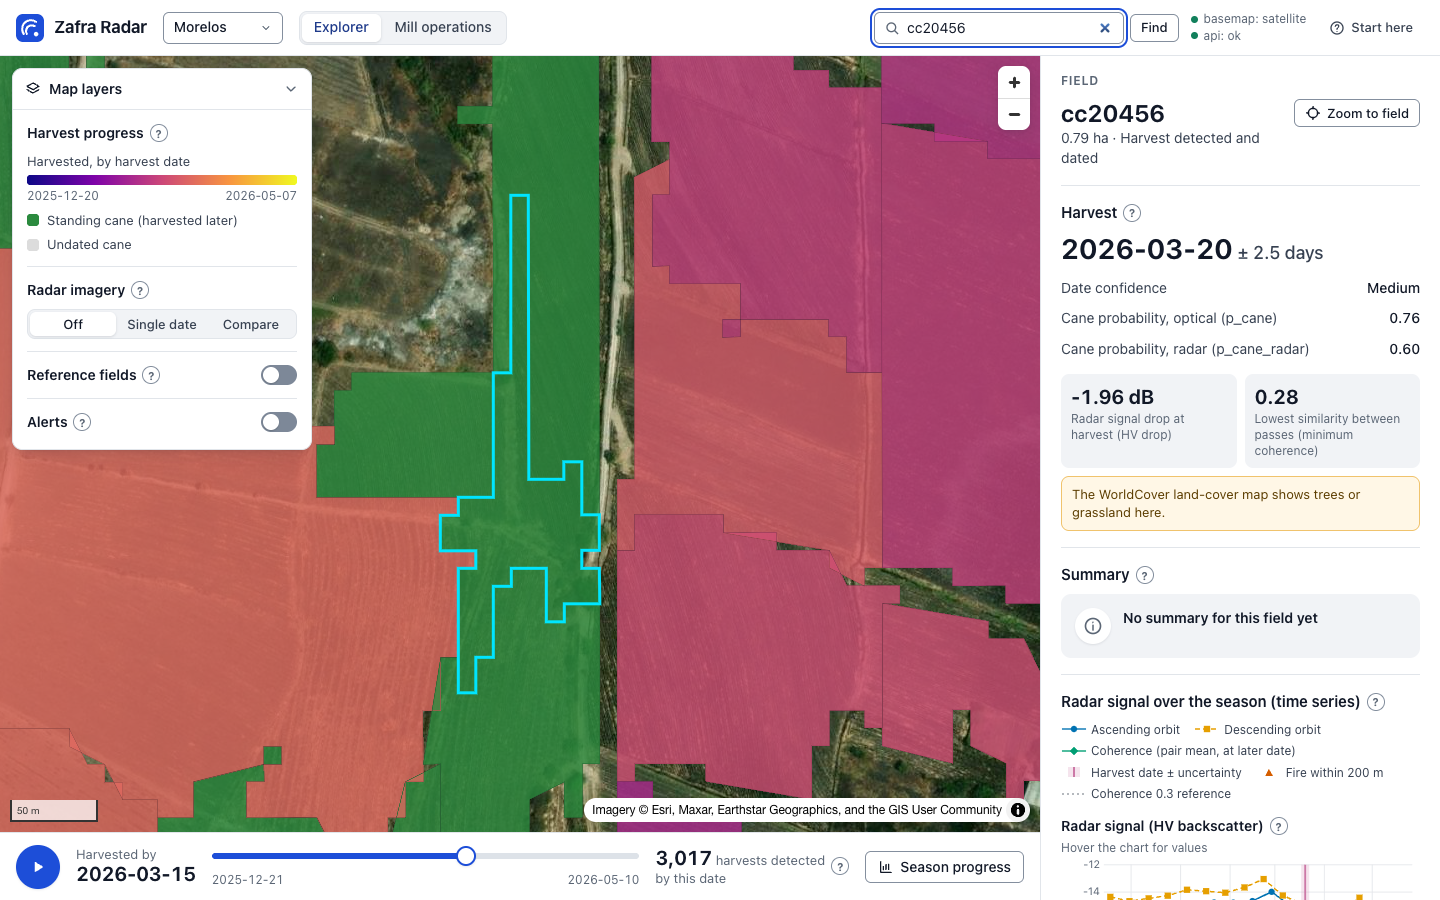
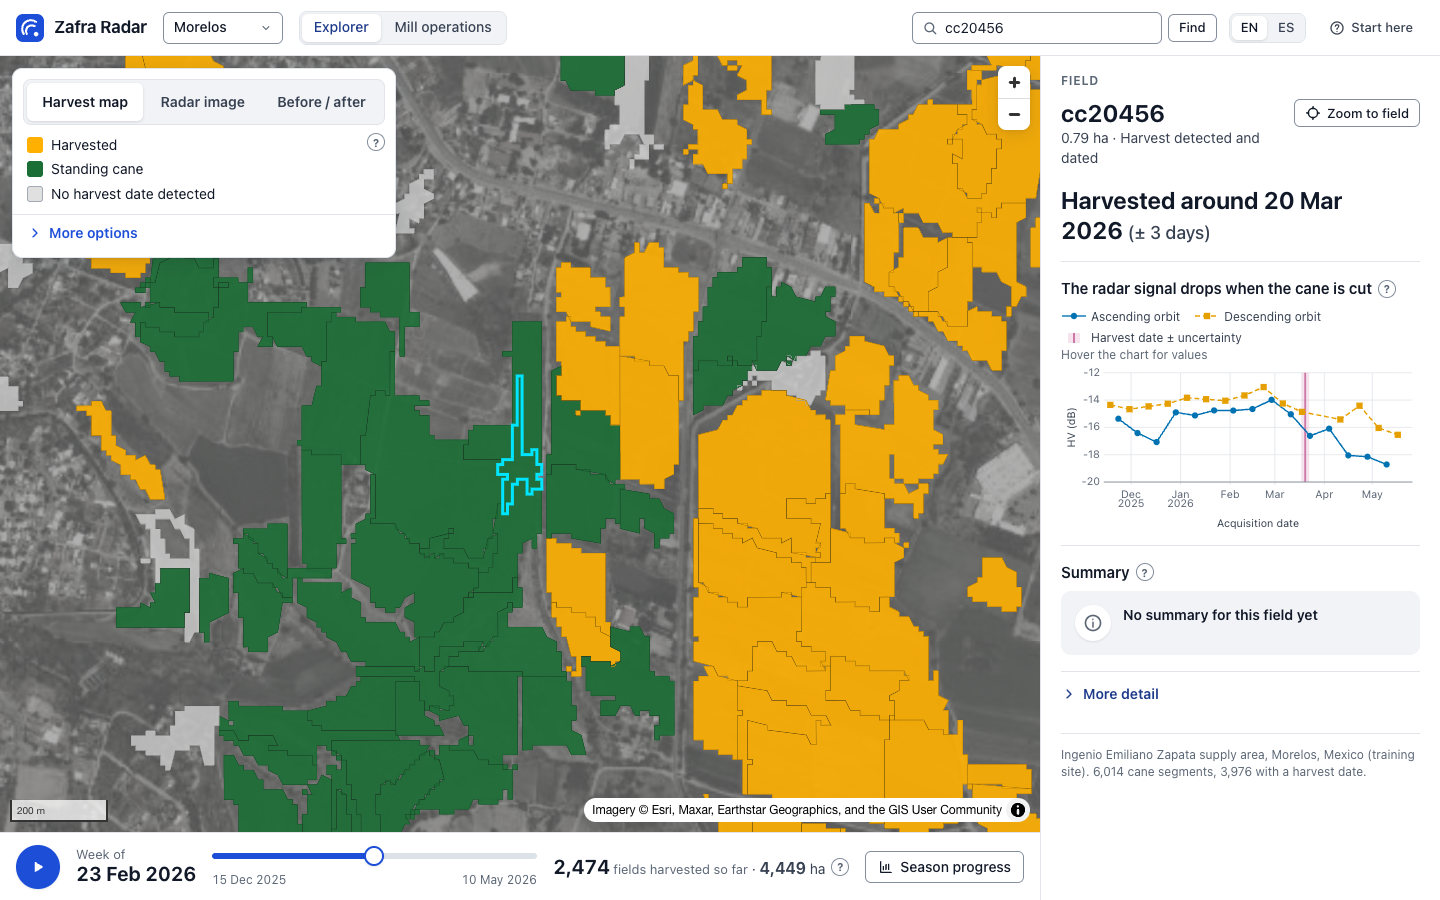
Document the three explorer views and refresh the screenshots
DESIGN.md records the three views, the More options rule, the harvest map
colours and their colour-blind check; README Status and the journal follow.
Six screenshots retaken at 1440x900 and three added, one per view.

diff --git a/README.md b/README.md
@@ -46,15 +46,19 @@ What exists right now:
   besides `/health` and `/version` (see [docs/API.md](docs/API.md));
 * the **map** draws the segment vector tiles from the API, with a site select (Morelos /
   Brazil) that refits the map, a weekly time slider with play/pause over the site's harvest
-  dates (segments harvested by the slider date coloured by harvest date, the rest standing
-  green, undated grey) and the cumulative count of detected harvests from `/weekly`, a
-  legend and hover highlight;
+  dates ("Week of" its Monday) and the fields harvested so far (`/weekly`) with their hectares
+  (`/ops/{site}/series`), and three views, one click each: **Harvest map** (harvested amber,
+  standing green, no harvest date grey, over a dimmed basemap; colour by harvest date under More
+  options), **Radar image** (the NISAR HV image following the timeline) and **Before / after**
+  (first against last acquisition with a divider); a legend of at most three entries;
 * the **field detail panel**: clicking a segment loads `/segments/{site}/{segment_id}` into
-  the side panel: area, status and "Zoom to field"; harvest date ± uncertainty, date
-  confidence and the optical and radar cane probabilities, HV drop and minimum coherence;
-  the field summary with an EN / ES toggle and its source; HV, HH (both orbits) and
-  coherence charts on one date axis with the harvest date band and nearby fires; the fire
-  list within 200 m and the field's alerts;
+  the side panel: area, status and "Zoom to field"; one sentence, "Harvested around <date>
+  (± n days)" or "No harvest date detected"; the HV radar signal of both orbits with the
+  harvest date band; the field summary with an EN / ES toggle and its source. "More detail"
+  holds the date confidence, the optical and radar cane probabilities, HV drop and minimum
+  coherence, HV, HH and coherence charts on one date axis with nearby fires, the fire list
+  within 200 m and the field's alerts; with nothing selected the panel shows the site's three
+  key numbers;
 * the **season progress panel** ("Season progress" on the timeline bar under the map) opens as a
   drawer across the bottom of the map, from `/sites` and `/weekly/{site}`: cane and dated area and segment counts (and,
   for Morelos, the official mill area and detected area as a share of it); weekly detected
@@ -65,14 +69,14 @@ What exists right now:
 * **reference fields**: the loader also fills `reference_fields`, `reference_dates` and
   `reference_summaries` (Morelos' 38 traced fields, with their NDVI harvest windows, p36's
   reported ground-truth dates and summaries), served by `/reference/{site}`. "Reference
-  fields" in the Map layers panel draws the outlines (white dashes, id labels from zoom 12); clicking
+  fields" under More options on the map panel draws the outlines (white dashes, id labels from zoom 12); clicking
   one opens a card with its reference dates, the radar date ± uncertainty of the field and
   of each overlapping segment, the difference in days, the summary (EN / ES) and links to
   the segments' detail. "Find field" flies to a reference field (p36) or a segment (cc20456).
 * **alerts**: `tools/build_alerts.py` runs the library's own alert rules over every cane
   segment of both sites into `data/derived/` (DATA.md); the loader loads them, and
   `/alerts/{site}` serves per-code counts with the library's definitions and pages of alerts.
-  "Alerts" in the Map layers panel lists them in the side panel: a fixed note that they are flags for
+  "Alerts" under More options lists them in the side panel: a fixed note that they are flags for
   review, code chips that filter the list and outline the matching segments on the map, 50
   rows at a time; clicking a row flies to the segment and opens its detail.
 * **mill operations**: a top-bar switch between "Explorer" and "Mill operations". The latter
@@ -95,23 +99,25 @@ What exists right now:
   [docs/FINDINGS.md](docs/FINDINGS.md).
 
 * **radar imagery** (Explorer): the library's NISAR GCOV tile sets (six ascending dates per
-  site; HV, HH, HV − HH cross-ratio and HV change) under the field polygons. "Radar imagery"
-  in the Map layers panel: off, single date (product, date, "Follow time slider" for the latest
-  acquisition on or before the slider date, opacity, field outlines on top in the harvest
-  colours or hidden) or compare (earlier date left, later date right, a draggable divider;
-  the right side can show the library's HV change layer for the pair where one exists). A
-  legend line gives the library's description of the colours and the acquisition date(s);
+  site; HV, HH, HV − HH cross-ratio and HV change) under the field polygons, shown by the
+  Radar image and Before / after views. Under More options: product, date or "Follow time
+  slider" for the latest acquisition on or before the slider date, the compare dates, the
+  library's HV change layer for the pair on the right where one exists, opacity, field
+  outlines on top in the harvest colours (off by default). The full legend gives the library's
+  description of the colours and the acquisition date(s);
   the imagery credit is the library's NISAR line (docs/DATA_SOURCES.md). Tiles exist for zoom 10-14;
   the tiles reach the server only with `./deploy.sh --with-rasters` (about 650 MB).
-* **interface**: one design system ([docs/DESIGN.md](docs/DESIGN.md)): a top bar (site, the
-  Explorer / Mill operations switch, Find field, language on Mill operations, connection
-  status), a Map layers panel (harvest legend, radar imagery, reference fields, alerts), a
-  timeline bar under the map with play and the current date, the season panel as a bottom
-  drawer, the detail panel on the right; "?" tooltips with one plain sentence per chart,
-  number and layer (technical term in parentheses); a three-step "Start here" guide on the
-  first visit (remembered in the browser); loading, empty and error states; keyboard
-  operation, visible focus and reduced motion; at phone width the page scrolls (map,
-  timeline, drawer, detail). Data colours and their meaning are unchanged.
+* **interface**: one design system ([docs/DESIGN.md](docs/DESIGN.md)), one idea per view with
+  everything else behind "More options" / "More detail", closed by default: a top bar (site,
+  the Explorer / Mill operations switch, Find field, an EN / ES switch for the whole interface
+  in Mexican Spanish), the map panel (three views, legend, More options: colour by date, radar
+  settings, reference fields, alerts), a timeline bar under the map, the season panel as a
+  bottom drawer, the detail panel on the right; dates day first in the interface language
+  (21 Dec 2025 / 21 dic 2025; API and CSV keep ISO dates); "?" tooltips with one plain
+  sentence per chart, number and layer (technical term in parentheses); a three-step "Start
+  here" guide on the first visit (remembered in the browser); loading, empty and error states;
+  keyboard operation, visible focus and reduced motion; at phone width the page scrolls (map,
+  timeline, drawer, detail).
 * **deployment**: first production deployment to zafraradar.earth on 2026-11-14 (see
   [DEPLOY.md](DEPLOY.md) and [docs/JOURNAL.md](docs/JOURNAL.md)).
 
@@ -206,9 +212,11 @@ At 1440×900 (headless Chrome, `docs/screenshots/`):
 
 | | |
 |---|---|
-| ![Explorer](docs/screenshots/explorer.png) Explorer: map layers, timeline, detail panel | ![Field detail](docs/screenshots/field_detail.png) Field detail |
-| ![Season panel](docs/screenshots/season_panel.png) Season progress drawer | ![Radar compare](docs/screenshots/radar_compare.png) Radar imagery, compare |
-| ![Mill operations](docs/screenshots/mill_operations_es.png) Mill operations, Spanish | ![Weekly report](docs/screenshots/weekly_report.png) Weekly report |
+| ![Harvest map](docs/screenshots/view_harvest.png) Harvest map (default view) | ![Radar image](docs/screenshots/view_radar.png) Radar image |
+| ![Before / after](docs/screenshots/view_before_after.png) Before / after | ![Explorer](docs/screenshots/explorer.png) More options open, colour by harvest date |
+| ![Field detail](docs/screenshots/field_detail.png) Field detail | ![Season panel](docs/screenshots/season_panel.png) Season progress drawer |
+| ![Radar compare](docs/screenshots/radar_compare.png) Before / after with its More options | ![Mill operations](docs/screenshots/mill_operations_es.png) Mill operations, Spanish |
+| ![Weekly report](docs/screenshots/weekly_report.png) Weekly report | |
 
 ## License
 

diff --git a/docs/DESIGN.md b/docs/DESIGN.md
@@ -4,12 +4,27 @@ One page of rules for the web app (`web/src/styles.css` holds the tokens as CSS 
 The goal: a formal, quiet interface that someone with no remote-sensing background can read at
 a glance, on a laptop, online and on a projector at 1280×720.
 
+**One idea per view, readable in three seconds.** Each screen shows one thing and a legend of
+at most three plain entries. Everything else sits behind a "More options" (map) or "More
+detail" (field) disclosure, closed by default. Advanced controls move there; they are never
+removed.
+
 ## Tokens
 
 **Colour (interface only).** Neutral light background, white surfaces, one accent. The data
-colours (harvest ramp, standing / undated cane, orbit and chart series, ops map colours, alert
-and selection outlines) live in `colors.ts`, `season.ts`, `ops.ts` and `alerts.ts` and are not
-interface tokens: they are never restyled.
+colours (harvest map, harvest-date ramp, orbit and chart series, ops map colours, alert and
+selection outlines) live in `colors.ts`, `season.ts`, `ops.ts` and `alerts.ts` and are not
+interface tokens.
+
+**Harvest map colours** (`season.ts`): two states, standing cane `#1b6e35` (dark green, CIELAB
+L* 41) and harvested `#ffb000` (amber, L* 77), drawn at 0.9 opacity; fields with no harvest
+date `#d6d6d6` (light neutral grey) at 0.75. Checked by simulating protanopia, deuteranopia and
+tritanopia (Machado et al. 2009, full severity) on the colours as drawn over the dimmed basemap
+and over the plain background: standing against harvested differs by CIEDE2000 ≥ 26 and
+ΔL* ≥ 25 in every case, so the two states stay apart by lightness alone. The explorer's
+satellite basemap is desaturated and flattened to mid greys (`BASEMAP_DIM`, `basemap.ts`) and
+its plain background is a matching mid grey (`#8f9297`), so the map looks alike with and
+without the satellite image. The plasma ramp (colour by harvest date) is a More options choice.
 
 | Token | Value | Use |
 |---|---|---|
@@ -34,13 +49,30 @@ the map), `--shadow-3` (tooltips, the guide).
 ## Layout
 
 * **Top bar** (56 px, white): product name, site select, the Explorer / Mill operations
-  segmented control, then on the right Find field (Explorer), language (Mill operations),
-  connection status and the "Start here" button.
-* **Explorer:** map in the middle; **Map layers** panel floating top-left (harvest legend,
-  radar imagery, reference fields, alerts), collapsible; **detail panel** on the right (400 px);
-  the **timeline bar** docked under the map (play, current date, slider, harvest count, season
-  progress button); the **season panel** is a bottom drawer under the timeline (40 %, or about
-  75 % of the window expanded).
+  segmented control, then on the right Find field (Explorer), the EN / ES language switch (the
+  whole interface) and the "Start here" button. The basemap and API status labels stay in the
+  page for the headless checks but are not shown.
+* **Explorer:** map in the middle; the **map panel** floating top-left; **detail panel** on the
+  right (400 px); the **timeline bar** docked under the map (play, "Week of" the Monday, slider,
+  fields and hectares harvested so far, season progress button); the **season panel** is a
+  bottom drawer under the timeline (40 %, or about 75 % of the window expanded).
+* **Three map views**, one click each on the map panel's segmented control:
+  1. **Harvest map** (default): standing green, harvested amber, no harvest date grey, over the
+     dimmed basemap; play turns the fields amber week by week.
+  2. **Radar image**: the NISAR HV image of the latest acquisition on or before the timeline
+     date, following play; no outlines; legend "Bright: standing cane", "Dark: cut cane or bare
+     soil" (from the library's legend text) and the image date.
+  3. **Before / after**: the first against the last acquisition with the divider, labelled
+     "Before harvest · date" and "After harvest · date"; no outlines, no other controls.
+* **More options** (closed by default) holds everything else: colour by harvest date, the
+  radar product, dates, follow time slider, change layer, opacity, outlines, the library's full
+  legend and credit, reference fields and alerts.
+* **Nothing selected:** the site's three key numbers (cane hectares, fields, fields with a
+  harvest date) and one line inviting to press play or click a field.
+* **Field detail:** one sentence in large type ("Harvested around 21 Dec 2025 (± 6 days)" or
+  "No harvest date detected"), then one chart, the HV radar signal titled "The radar signal
+  drops when the cane is cut", and the summary. Date confidence, probabilities, HV drop,
+  coherence, HH, fires and alerts are under "More detail", with their notes.
 * **Mill operations:** toolbar (site, replay date stepper, exports, weekly report), a key
   numbers row, then list and map side by side.
 * At 1280×720 nothing essential on the Explorer is below the fold. Under 700 px wide the
@@ -50,8 +82,8 @@ the map), `--shadow-3` (tooltips, the guide).
 
 * **Buttons:** primary (accent fill, one per area), secondary (white, outlined), ghost (text).
   Height 32 (28 small); icon + label; never colour alone for state.
-* **Segmented control:** one rounded track, selected item white with shadow; used for view,
-  language, radar mode, list window.
+* **Segmented control:** one rounded track, selected item white with shadow; used for the
+  screen, the map views, language and list window.
 * **Switch rows** for on/off layers (`aria-pressed`), **chips** for filters, **pills** for
   status and severity.
 * **Cards:** white, 1 px border, radius 10, label (13, muted) over value (20, tabular).
@@ -62,7 +94,13 @@ the map), `--shadow-3` (tooltips, the guide).
 * **Legends:** a swatch or line sample beside each label, inside the layer they describe.
 * **States:** loading skeletons (shimmer off with reduced motion) with a screen-reader text;
   empty states with an icon and one sentence; errors in a red note with the message.
-* **Notes and caveats** keep their wording; they sit in an amber note, never hidden.
+* **Notes and caveats** keep their wording; they sit in an amber note, and move with their
+  section into a disclosure, never deleted.
+* **Dates** read day first in the interface language (21 Dec 2025 / 21 dic 2025); API
+  parameters and CSV files keep ISO dates.
+* **Language:** every interface string is in `i18n.ts` (English and Mexican Spanish). Text
+  quoted from the research library (legend meanings, alert definitions, the imagery credit)
+  stays as the library wrote it.
 
 ## Accessibility
 

diff --git a/docs/JOURNAL.md b/docs/JOURNAL.md
@@ -171,3 +171,14 @@ Zacatepec). Newest entry last. Times are local (America/Mexico_City).
 - Headless Chrome at 1440×900, 1280×720 and 390×844, both sites, EN / ES: 383 checks pass, no
   console errors; weekly report 2 pages on Letter and A4 (both sites, both languages).
 - Type-check and build pass in the web container; api suite 110 passed.
+
+## 2026-11-15 00:25 CST
+
+- Explorer simplified to three map views (Harvest map, Radar image, Before / after), one click
+  each; every other map control moved under "More options", field charts and numbers beyond
+  the HV signal under "More detail". No API, calculation or data change.
+- Harvest map: standing `#1b6e35`, harvested `#ffb000`, no date `#d6d6d6` over a dimmed
+  basemap; simulated protan / deutan / tritan CIEDE2000 between the two states ≥ 26.
+- EN / ES switch for the whole interface; dates day first (21 Dec 2025 / 21 dic 2025).
+- Headless Chrome at 1280×720 and 1440×900, both sites and languages, offline and the weekly
+  report (2 pages, Letter and A4): 487 checks pass; build passes; api suite 110 passed.
